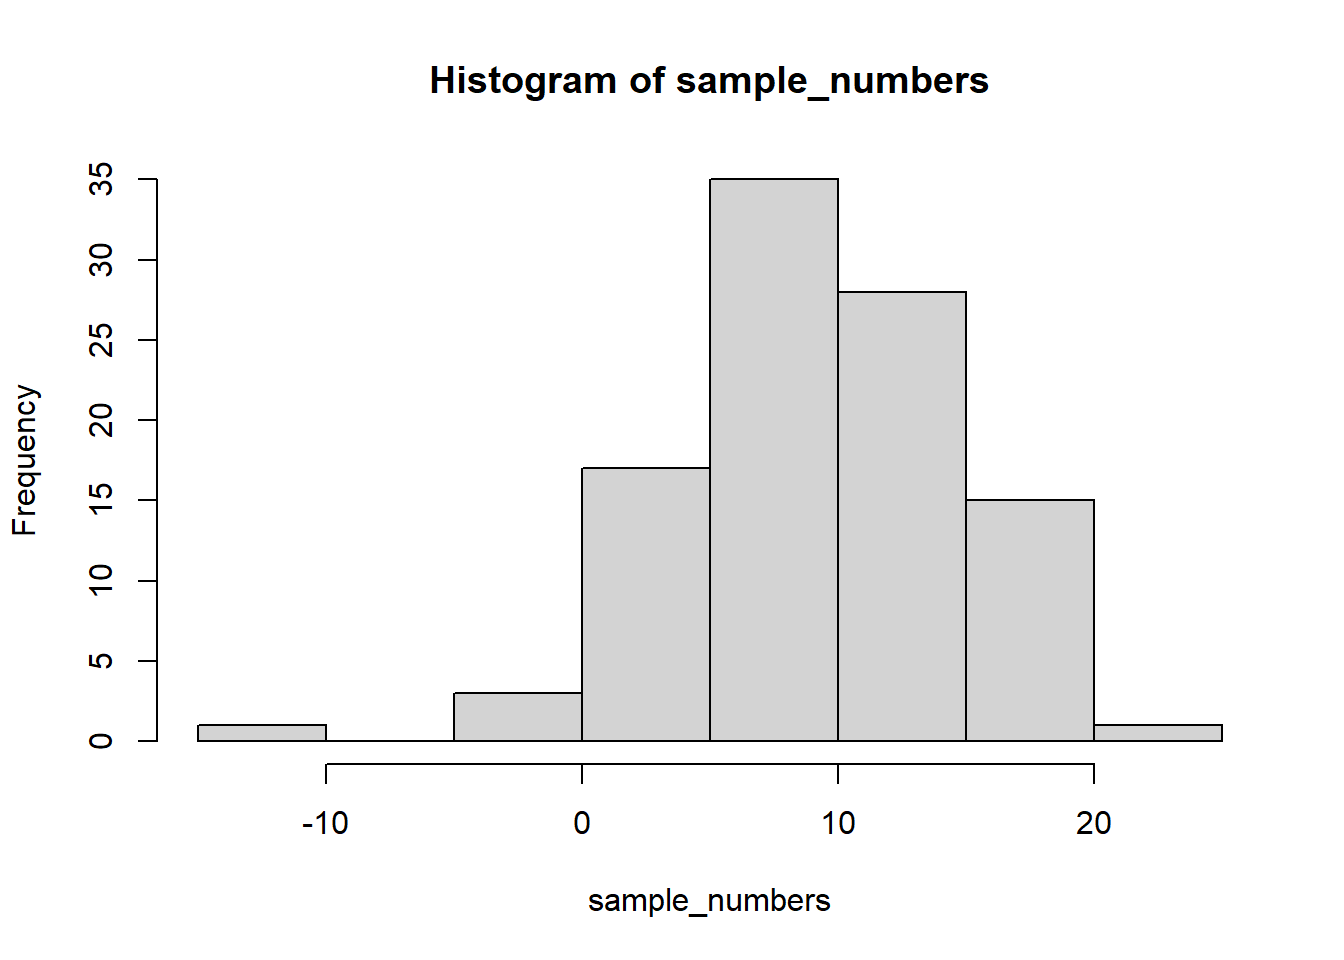
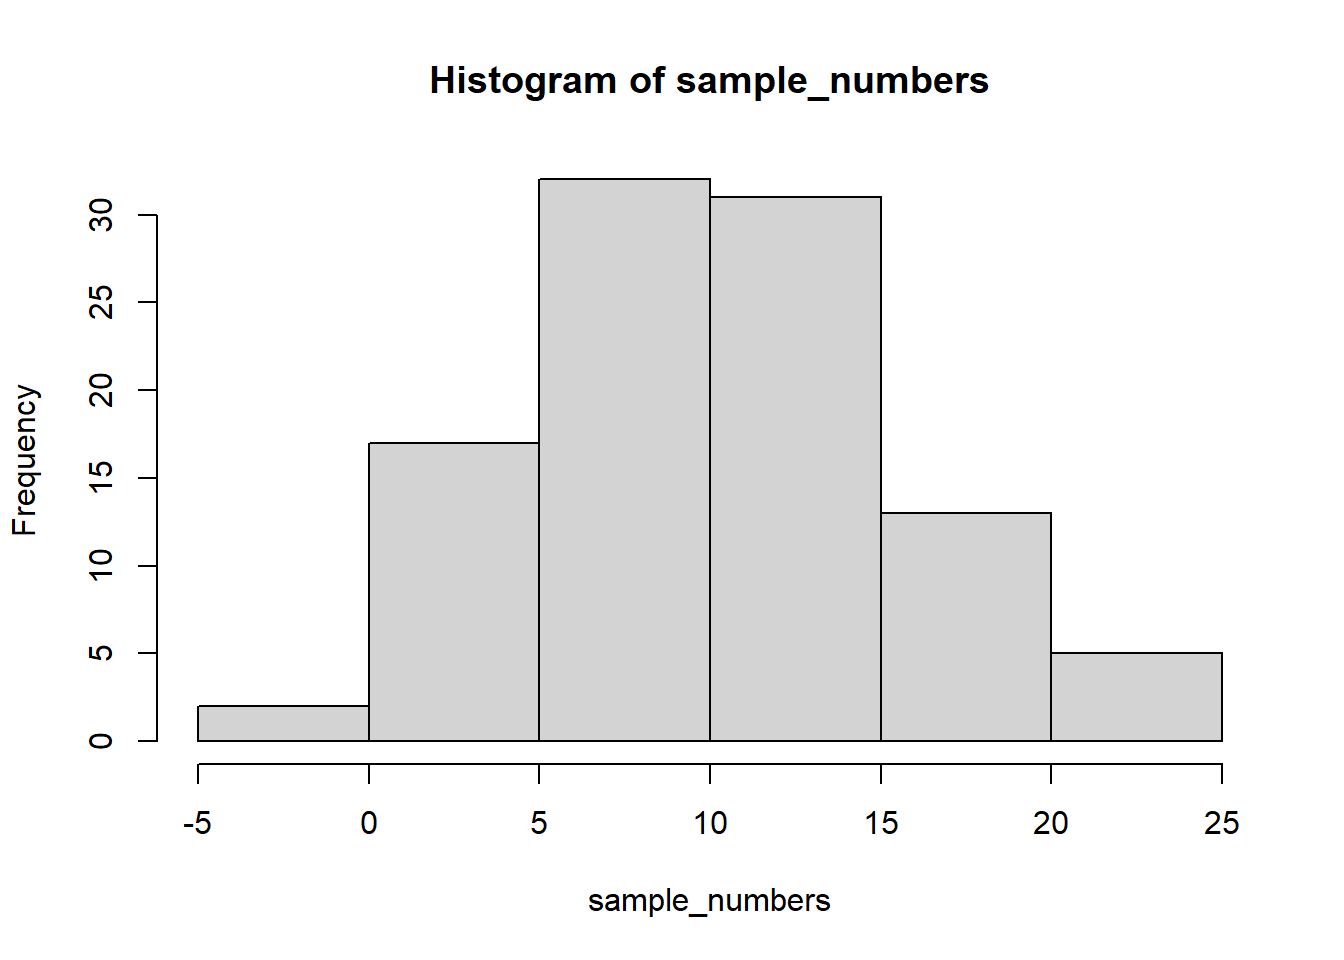
Updates 2.5
Fixing some errors found during this week of lab

diff --git a/docs/lab-2-descriptive-statistics-and-more-graphs.html b/docs/lab-2-descriptive-statistics-and-more-graphs.html
@@ -227,7 +227,7 @@ code span.wa { color: #60a0b0; font-weight: bold; font-style: italic; } /* Warni
 <li class="chapter" data-level="1.4.3" data-path="lab-1-graphing-data.html"><a href="lab-1-graphing-data.html#opening-a-data-file-and-producing-different-types-of-graphs"><i class="fa fa-check"></i><b>1.4.3</b> Opening a data file and producing different types of graphs</a></li>
 <li class="chapter" data-level="1.4.4" data-path="lab-1-graphing-data.html"><a href="lab-1-graphing-data.html#homework-1"><i class="fa fa-check"></i><b>1.4.4</b> Homework</a></li>
 </ul></li>
-<li class="chapter" data-level="1.5" data-path="lab-1-graphing-data.html"><a href="lab-1-graphing-data.html#jamovi---week-4---january-30th-31st"><i class="fa fa-check"></i><b>1.5</b> JAMOVI - Week 4 - January 30th &amp; 31st</a>
+<li class="chapter" data-level="1.5" data-path="lab-1-graphing-data.html"><a href="lab-1-graphing-data.html#jamovi---week-4---february-4th-5th-6th"><i class="fa fa-check"></i><b>1.5</b> JAMOVI - Week 4 - February 4th, 5th, &amp; 6th</a>
 <ul>
 <li class="chapter" data-level="1.5.1" data-path="lab-1-graphing-data.html"><a href="lab-1-graphing-data.html#opening-jamovi-and-reviewing-the-jamovi-layout"><i class="fa fa-check"></i><b>1.5.1</b> Opening JAMOVI and Reviewing the JAMOVI Layout</a></li>
 <li class="chapter" data-level="1.5.2" data-path="lab-1-graphing-data.html"><a href="lab-1-graphing-data.html#reviewing-variable-properties-and-the-edit-or-setup-button"><i class="fa fa-check"></i><b>1.5.2</b> Reviewing Variable Properties and the Edit or Setup button</a></li>
@@ -710,22 +710,22 @@ Describing comic sensibility is near impossible. It’s sort of an abstract sill
 <h4><span class="header-section-number">2.2.3.1</span> range<a href="lab-2-descriptive-statistics-and-more-graphs.html#range" class="anchor-section" aria-label="Anchor link to header"></a></h4>
 <p>The range is the minimum and maximum values in the set, we use the <code>range</code> function.</p>
 <div class="sourceCode" id="cb21"><pre class="sourceCode r"><code class="sourceCode r"><span id="cb21-1"><a href="lab-2-descriptive-statistics-and-more-graphs.html#cb21-1" tabindex="-1"></a><span class="fu">range</span>(sample_numbers)</span></code></pre></div>
-<pre><code>## [1] -10.24517  20.91512</code></pre>
+<pre><code>## [1] -2.087709 24.712916</code></pre>
 </div>
 <div id="var-variance" class="section level4 hasAnchor" number="2.2.3.2">
 <h4><span class="header-section-number">2.2.3.2</span> var = variance<a href="lab-2-descriptive-statistics-and-more-graphs.html#var-variance" class="anchor-section" aria-label="Anchor link to header"></a></h4>
 <p>We can find the sample variance using <code>var</code>. Note, divides by (n-1)</p>
 <div class="sourceCode" id="cb23"><pre class="sourceCode r"><code class="sourceCode r"><span id="cb23-1"><a href="lab-2-descriptive-statistics-and-more-graphs.html#cb23-1" tabindex="-1"></a><span class="fu">var</span>(sample_numbers)</span></code></pre></div>
-<pre><code>## [1] 28.57252</code></pre>
+<pre><code>## [1] 30.94101</code></pre>
 </div>
 <div id="sd-standard-deviation" class="section level4 hasAnchor" number="2.2.3.3">
 <h4><span class="header-section-number">2.2.3.3</span> sd = standard deviation<a href="lab-2-descriptive-statistics-and-more-graphs.html#sd-standard-deviation" class="anchor-section" aria-label="Anchor link to header"></a></h4>
 <p>We find the sample standard deviation us SD. Note, divides by (n-1)</p>
 <div class="sourceCode" id="cb25"><pre class="sourceCode r"><code class="sourceCode r"><span id="cb25-1"><a href="lab-2-descriptive-statistics-and-more-graphs.html#cb25-1" tabindex="-1"></a><span class="fu">sd</span>(sample_numbers)</span></code></pre></div>
-<pre><code>## [1] 5.345327</code></pre>
+<pre><code>## [1] 5.562464</code></pre>
 <p>Remember that the standard deviation is just the square root of the variance, see:</p>
 <div class="sourceCode" id="cb27"><pre class="sourceCode r"><code class="sourceCode r"><span id="cb27-1"><a href="lab-2-descriptive-statistics-and-more-graphs.html#cb27-1" tabindex="-1"></a><span class="fu">sqrt</span>(<span class="fu">var</span>(sample_numbers))</span></code></pre></div>
-<pre><code>## [1] 5.345327</code></pre>
+<pre><code>## [1] 5.562464</code></pre>
 </div>
 <div id="all-descriptives" class="section level4 hasAnchor" number="2.2.3.4">
 <h4><span class="header-section-number">2.2.3.4</span> All Descriptives<a href="lab-2-descriptive-statistics-and-more-graphs.html#all-descriptives" class="anchor-section" aria-label="Anchor link to header"></a></h4>
@@ -733,21 +733,21 @@ Describing comic sensibility is near impossible. It’s sort of an abstract sill
 <div class="sourceCode" id="cb29"><pre class="sourceCode r"><code class="sourceCode r"><span id="cb29-1"><a href="lab-2-descriptive-statistics-and-more-graphs.html#cb29-1" tabindex="-1"></a>sample_numbers <span class="ot">&lt;-</span> <span class="fu">rnorm</span>(<span class="dv">100</span>,<span class="dv">10</span>,<span class="dv">5</span>)</span>
 <span id="cb29-2"><a href="lab-2-descriptive-statistics-and-more-graphs.html#cb29-2" tabindex="-1"></a></span>
 <span id="cb29-3"><a href="lab-2-descriptive-statistics-and-more-graphs.html#cb29-3" tabindex="-1"></a><span class="fu">sum</span>(sample_numbers)</span></code></pre></div>
-<pre><code>## [1] 1003.17</code></pre>
+<pre><code>## [1] 974.2559</code></pre>
 <div class="sourceCode" id="cb31"><pre class="sourceCode r"><code class="sourceCode r"><span id="cb31-1"><a href="lab-2-descriptive-statistics-and-more-graphs.html#cb31-1" tabindex="-1"></a><span class="fu">length</span>(sample_numbers)</span></code></pre></div>
 <pre><code>## [1] 100</code></pre>
 <div class="sourceCode" id="cb33"><pre class="sourceCode r"><code class="sourceCode r"><span id="cb33-1"><a href="lab-2-descriptive-statistics-and-more-graphs.html#cb33-1" tabindex="-1"></a><span class="fu">mean</span>(sample_numbers)</span></code></pre></div>
-<pre><code>## [1] 10.0317</code></pre>
+<pre><code>## [1] 9.742559</code></pre>
 <div class="sourceCode" id="cb35"><pre class="sourceCode r"><code class="sourceCode r"><span id="cb35-1"><a href="lab-2-descriptive-statistics-and-more-graphs.html#cb35-1" tabindex="-1"></a><span class="fu">median</span>(sample_numbers)</span></code></pre></div>
-<pre><code>## [1] 10.13004</code></pre>
+<pre><code>## [1] 9.725955</code></pre>
 <div class="sourceCode" id="cb37"><pre class="sourceCode r"><code class="sourceCode r"><span id="cb37-1"><a href="lab-2-descriptive-statistics-and-more-graphs.html#cb37-1" tabindex="-1"></a><span class="fu">my_mode</span>(sample_numbers)</span></code></pre></div>
-<pre><code>## [1] 13.80553</code></pre>
+<pre><code>## [1] 10.60041</code></pre>
 <div class="sourceCode" id="cb39"><pre class="sourceCode r"><code class="sourceCode r"><span id="cb39-1"><a href="lab-2-descriptive-statistics-and-more-graphs.html#cb39-1" tabindex="-1"></a><span class="fu">range</span>(sample_numbers)</span></code></pre></div>
-<pre><code>## [1] -0.6360102 22.2389220</code></pre>
+<pre><code>## [1] -1.047435 21.581042</code></pre>
 <div class="sourceCode" id="cb41"><pre class="sourceCode r"><code class="sourceCode r"><span id="cb41-1"><a href="lab-2-descriptive-statistics-and-more-graphs.html#cb41-1" tabindex="-1"></a><span class="fu">var</span>(sample_numbers)</span></code></pre></div>
-<pre><code>## [1] 18.94366</code></pre>
+<pre><code>## [1] 25.62877</code></pre>
 <div class="sourceCode" id="cb43"><pre class="sourceCode r"><code class="sourceCode r"><span id="cb43-1"><a href="lab-2-descriptive-statistics-and-more-graphs.html#cb43-1" tabindex="-1"></a><span class="fu">sd</span>(sample_numbers)</span></code></pre></div>
-<pre><code>## [1] 4.352432</code></pre>
+<pre><code>## [1] 5.062486</code></pre>
 </div>
 </div>
 <div id="descriptives-by-conditions" class="section level3 hasAnchor" number="2.2.4">
@@ -760,11 +760,11 @@ Describing comic sensibility is near impossible. It’s sort of an abstract sill
 <p>If you look at the <code>my_df</code> data frame, you will see it has 100 rows, there are 10 rows for each condition with a label in the <code>conditions</code> column, and 10 scores for each condition in the <code>scores</code> column. What if you wanted to know the mean of the scores in each condition? You would want to find 10 means.</p>
 <p>The slow way to do it would be like this:</p>
 <div class="sourceCode" id="cb46"><pre class="sourceCode r"><code class="sourceCode r"><span id="cb46-1"><a href="lab-2-descriptive-statistics-and-more-graphs.html#cb46-1" tabindex="-1"></a><span class="fu">mean</span>(my_df[my_df<span class="sc">$</span>conditions<span class="sc">==</span><span class="st">&quot;A&quot;</span>,]<span class="sc">$</span>scores)</span></code></pre></div>
-<pre><code>## [1] 10.98145</code></pre>
+<pre><code>## [1] 13.66491</code></pre>
 <div class="sourceCode" id="cb48"><pre class="sourceCode r"><code class="sourceCode r"><span id="cb48-1"><a href="lab-2-descriptive-statistics-and-more-graphs.html#cb48-1" tabindex="-1"></a><span class="fu">mean</span>(my_df[my_df<span class="sc">$</span>conditions<span class="sc">==</span><span class="st">&quot;B&quot;</span>,]<span class="sc">$</span>scores)</span></code></pre></div>
-<pre><code>## [1] 9.886817</code></pre>
+<pre><code>## [1] 10.19809</code></pre>
 <div class="sourceCode" id="cb50"><pre class="sourceCode r"><code class="sourceCode r"><span id="cb50-1"><a href="lab-2-descriptive-statistics-and-more-graphs.html#cb50-1" tabindex="-1"></a><span class="fu">mean</span>(my_df[my_df<span class="sc">$</span>conditions<span class="sc">==</span><span class="st">&quot;C&quot;</span>,]<span class="sc">$</span>scores)</span></code></pre></div>
-<pre><code>## [1] 8.385968</code></pre>
+<pre><code>## [1] 7.521792</code></pre>
 <div class="sourceCode" id="cb52"><pre class="sourceCode r"><code class="sourceCode r"><span id="cb52-1"><a href="lab-2-descriptive-statistics-and-more-graphs.html#cb52-1" tabindex="-1"></a><span class="co"># and then keep going</span></span></code></pre></div>
 <p>Nobody wants to do that! Not, me I stopped doing it that way, you should to.</p>
 <div id="group_by-and-summarise" class="section level4 hasAnchor" number="2.2.4.1">
@@ -785,16 +785,16 @@ Describing comic sensibility is near impossible. It’s sort of an abstract sill
 <pre><code>## # A tibble: 10 × 2
 ##    conditions means
 ##    &lt;chr&gt;      &lt;dbl&gt;
-##  1 A          11.0 
-##  2 B           9.89
-##  3 C           8.39
-##  4 D          12.3 
-##  5 E          11.9 
-##  6 F           8.67
-##  7 G           7.62
-##  8 H           8.97
-##  9 I           9.55
-## 10 J           9.09</code></pre>
+##  1 A          13.7 
+##  2 B          10.2 
+##  3 C           7.52
+##  4 D          10.0 
+##  5 E          10.3 
+##  6 F           7.86
+##  7 G          12.7 
+##  8 H          10.6 
+##  9 I          10.5 
+## 10 J           7.97</code></pre>
 <p>A couple things now. First, the print out of this was ugly. Let’s fix that. we put the results of our code into a new variable, then we use <code>knitr::kable</code> to print it out nicely when we <code>knit</code> the document</p>
 <div class="sourceCode" id="cb59"><pre class="sourceCode r"><code class="sourceCode r"><span id="cb59-1"><a href="lab-2-descriptive-statistics-and-more-graphs.html#cb59-1" tabindex="-1"></a>summary_df <span class="ot">&lt;-</span> my_df <span class="sc">%&gt;%</span></span>
 <span id="cb59-2"><a href="lab-2-descriptive-statistics-and-more-graphs.html#cb59-2" tabindex="-1"></a>               <span class="fu">group_by</span>(conditions) <span class="sc">%&gt;%</span></span>
@@ -811,43 +811,43 @@ Describing comic sensibility is near impossible. It’s sort of an abstract sill
 <tbody>
 <tr class="odd">
 <td align="left">A</td>
-<td align="right">10.981450</td>
+<td align="right">13.664910</td>
 </tr>
 <tr class="even">
 <td align="left">B</td>
-<td align="right">9.886817</td>
+<td align="right">10.198092</td>
 </tr>
 <tr class="odd">
 <td align="left">C</td>
-<td align="right">8.385968</td>
+<td align="right">7.521793</td>
 </tr>
 <tr class="even">
 <td align="left">D</td>
-<td align="right">12.302656</td>
+<td align="right">9.999625</td>
 </tr>
 <tr class="odd">
 <td align="left">E</td>
-<td align="right">11.938736</td>
+<td align="right">10.261330</td>
 </tr>
 <tr class="even">
 <td align="left">F</td>
-<td align="right">8.674820</td>
+<td align="right">7.861781</td>
 </tr>
 <tr class="odd">
 <td align="left">G</td>
-<td align="right">7.616739</td>
+<td align="right">12.722155</td>
 </tr>
 <tr class="even">
 <td align="left">H</td>
-<td align="right">8.971213</td>
+<td align="right">10.577194</td>
 </tr>
 <tr class="odd">
 <td align="left">I</td>
-<td align="right">9.545290</td>
+<td align="right">10.499225</td>
 </tr>
 <tr class="even">
 <td align="left">J</td>
-<td align="right">9.089296</td>
+<td align="right">7.972471</td>
 </tr>
 </tbody>
 </table>
@@ -872,53 +872,53 @@ Describing comic sensibility is near impossible. It’s sort of an abstract sill
 <tbody>
 <tr class="odd">
 <td align="left">A</td>
-<td align="right">10.981450</td>
-<td align="right">5.303459</td>
+<td align="right">13.664910</td>
+<td align="right">5.916503</td>
 </tr>
 <tr class="even">
 <td align="left">B</td>
-<td align="right">9.886817</td>
-<td align="right">4.141168</td>
+<td align="right">10.198092</td>
+<td align="right">3.804879</td>
 </tr>
 <tr class="odd">
 <td align="left">C</td>
-<td align="right">8.385968</td>
-<td align="right">3.753569</td>
+<td align="right">7.521793</td>
+<td align="right">5.201726</td>
 </tr>
 <tr class="even">
 <td align="left">D</td>
-<td align="right">12.302656</td>
-<td align="right">3.925672</td>
+<td align="right">9.999625</td>
+<td align="right">5.278433</td>
 </tr>
 <tr class="odd">
 <td align="left">E</td>
-<td align="right">11.938736</td>
-<td align="right">3.839887</td>
+<td align="right">10.261330</td>
+<td align="right">5.978193</td>
 </tr>
 <tr class="even">
 <td align="left">F</td>
-<td align="right">8.674820</td>
-<td align="right">3.954064</td>
+<td align="right">7.861781</td>
+<td align="right">4.696606</td>
 </tr>
 <tr class="odd">
 <td align="left">G</td>
-<td align="right">7.616739</td>
-<td align="right">4.111022</td>
+<td align="right">12.722155</td>
+<td align="right">4.352124</td>
 </tr>
 <tr class="even">
 <td align="left">H</td>
-<td align="right">8.971213</td>
-<td align="right">4.928901</td>
+<td align="right">10.577194</td>
+<td align="right">4.570363</td>
 </tr>
 <tr class="odd">
 <td align="left">I</td>
-<td align="right">9.545290</td>
-<td align="right">4.763286</td>
+<td align="right">10.499225</td>
+<td align="right">3.650064</td>
 </tr>
 <tr class="even">
 <td align="left">J</td>
-<td align="right">9.089296</td>
-<td align="right">2.811802</td>
+<td align="right">7.972471</td>
+<td align="right">3.796578</td>
 </tr>
 </tbody>
 </table>
@@ -944,73 +944,73 @@ Describing comic sensibility is near impossible. It’s sort of an abstract sill
 <tbody>
 <tr class="odd">
 <td align="left">A</td>
-<td align="right">10.981450</td>
-<td align="right">5.303459</td>
-<td align="right">-0.2171249</td>
-<td align="right">18.38589</td>
+<td align="right">13.664910</td>
+<td align="right">5.916503</td>
+<td align="right">4.4478555</td>
+<td align="right">21.84011</td>
 </tr>
 <tr class="even">
 <td align="left">B</td>
-<td align="right">9.886817</td>
-<td align="right">4.141168</td>
-<td align="right">3.3932885</td>
-<td align="right">17.78449</td>
+<td align="right">10.198092</td>
+<td align="right">3.804879</td>
+<td align="right">3.5289390</td>
+<td align="right">16.43626</td>
 </tr>
 <tr class="odd">
 <td align="left">C</td>
-<td align="right">8.385968</td>
-<td align="right">3.753569</td>
-<td align="right">2.7199886</td>
-<td align="right">14.38365</td>
+<td align="right">7.521793</td>
+<td align="right">5.201726</td>
+<td align="right">-1.9717933</td>
+<td align="right">14.31200</td>
 </tr>
 <tr class="even">
 <td align="left">D</td>
-<td align="right">12.302656</td>
-<td align="right">3.925672</td>
-<td align="right">4.1857401</td>
-<td align="right">18.39332</td>
+<td align="right">9.999625</td>
+<td align="right">5.278433</td>
+<td align="right">1.0973816</td>
+<td align="right">16.65236</td>
 </tr>
 <tr class="odd">
 <td align="left">E</td>
-<td align="right">11.938736</td>
-<td align="right">3.839887</td>
-<td align="right">6.6061706</td>
-<td align="right">18.36098</td>
+<td align="right">10.261330</td>
+<td align="right">5.978193</td>
+<td align="right">0.0347348</td>
+<td align="right">21.64203</td>
 </tr>
 <tr class="even">
 <td align="left">F</td>
-<td align="right">8.674820</td>
-<td align="right">3.954064</td>
-<td align="right">2.9137857</td>
-<td align="right">16.81672</td>
+<td align="right">7.861781</td>
+<td align="right">4.696606</td>
+<td align="right">-0.4805095</td>
+<td align="right">13.13271</td>
 </tr>
 <tr class="odd">
 <td align="left">G</td>
-<td align="right">7.616739</td>
-<td align="right">4.111022</td>
-<td align="right">-0.9660138</td>
-<td align="right">13.14791</td>
+<td align="right">12.722155</td>
+<td align="right">4.352124</td>
+<td align="right">6.8535332</td>
+<td align="right">19.33011</td>
 </tr>
 <tr class="even">
 <td align="left">H</td>
-<td align="right">8.971213</td>
-<td align="right">4.928901</td>
-<td align="right">3.2174950</td>
-<td align="right">16.11663</td>
+<td align="right">10.577194</td>
+<td align="right">4.570363</td>
+<td align="right">2.4872385</td>
+<td align="right">19.10640</td>
 </tr>
 <tr class="odd">
 <td align="left">I</td>
-<td align="right">9.545290</td>
-<td align="right">4.763286</td>
-<td align="right">2.7089292</td>
-<td align="right">18.04233</td>
+<td align="right">10.499225</td>
+<td align="right">3.650064</td>
+<td align="right">2.4161351</td>
+<td align="right">14.68118</td>
 </tr>
 <tr class="even">
 <td align="left">J</td>
-<td align="right">9.089296</td>
-<td align="right">2.811802</td>
-<td align="right">4.1482196</td>
-<td align="right">13.38136</td>
+<td align="right">7.972471</td>
+<td align="right">3.796578</td>
+<td align="right">2.9053193</td>
+<td align="right">12.30229</td>
 </tr>
 </tbody>
 </table>
@@ -1296,9 +1296,9 @@ Describing comic sensibility is near impossible. It’s sort of an abstract sill
 <p>We can also ask for a histogram of <code>R_SLEEP</code>:</p>
 <p><img src="img/r_sleephistogram.png" /><!-- --></p>
 <p>Now that the <em>x</em>-axis stops at 23 instead of 8e+6, we can see the shape of the distribution much better. The tallest bar is somewhere around 7. Almost all of the responses are between 4 and 10.</p>
-<p>You often have to write sentences to report your descriptive statistics. For sleep, you might write: Nova Scotians who participated in the study reported a mean of 7.05 hours of sleep per day (<em>M</em> = 7.05, <em>SD</em> = 1.30).
+<p>You often have to write sentences to report your descriptive statistics. For sleep, you might write: Nova Scotians who participated in the study reported a mean of 7.04 hours of sleep per day (<em>M</em> = 7.04, <em>SD</em> = 1.30).
 Or like this…
-The mean (standard deviation) hours of sleep per day reported by Nova Scotians was 7.05 (1.30).</p>
+The mean (standard deviation) hours of sleep per day reported by Nova Scotians was 7.04 (1.30).</p>
 </div>
 <div id="example-2-volunteering" class="section level4 hasAnchor" number="2.5.4.2">
 <h4><span class="header-section-number">2.5.4.2</span> Example 2: Volunteering<a href="lab-2-descriptive-statistics-and-more-graphs.html#example-2-volunteering" class="anchor-section" aria-label="Anchor link to header"></a></h4>
@@ -1403,7 +1403,7 @@ Or like this…
 Participants reported a median (IQR) sense of belonging of 5 (2), corresponding to a sense of belonging between neutral and very strong.</p>
 <p>Let’s say you felt that the <code>BELONGING</code> variable had equal spacing between intervals, so that you could consider it a quasi-interval variable. In that case, you might wish to report the mean and standard deviation. (Remember: This is the default choice in 292 Labs for the Winter of 2025.)</p>
 <p><img src="img/belongingquasioutput.png" /><!-- --></p>
-<p>Now, you might describe your results with a sentence such as: Participants reported a mean sense of belong between neutral and very strong (<em>M</em> = 4.61, <em>SD</em> = 1.68).
+<p>Now, you might describe your results with a sentence such as: Participants reported a mean sense of belonging between neutral and very strong (<em>M</em> = 4.61, <em>SD</em> = 1.68).
 Or like this…
 Participants reported a mean (SD) sense of belonging of 4.61 (1.68), corresponding to a sense of belonging between neutral and very strong.</p>
 <p>Finally, you might want to look at the data graphically. A histogram would be appropriate whether you are considering <code>BELONGING</code> to be ordinal or quasi-interval.</p>

diff --git a/docs/404.html b/docs/404.html
@@ -227,7 +227,7 @@ code span.wa { color: #60a0b0; font-weight: bold; font-style: italic; } /* Warni
 <li class="chapter" data-level="1.4.3" data-path="lab-1-graphing-data.html"><a href="lab-1-graphing-data.html#opening-a-data-file-and-producing-different-types-of-graphs"><i class="fa fa-check"></i><b>1.4.3</b> Opening a data file and producing different types of graphs</a></li>
 <li class="chapter" data-level="1.4.4" data-path="lab-1-graphing-data.html"><a href="lab-1-graphing-data.html#homework-1"><i class="fa fa-check"></i><b>1.4.4</b> Homework</a></li>
 </ul></li>
-<li class="chapter" data-level="1.5" data-path="lab-1-graphing-data.html"><a href="lab-1-graphing-data.html#jamovi---week-4---january-30th-31st"><i class="fa fa-check"></i><b>1.5</b> JAMOVI - Week 4 - January 30th &amp; 31st</a>
+<li class="chapter" data-level="1.5" data-path="lab-1-graphing-data.html"><a href="lab-1-graphing-data.html#jamovi---week-4---february-4th-5th-6th"><i class="fa fa-check"></i><b>1.5</b> JAMOVI - Week 4 - February 4th, 5th, &amp; 6th</a>
 <ul>
 <li class="chapter" data-level="1.5.1" data-path="lab-1-graphing-data.html"><a href="lab-1-graphing-data.html#opening-jamovi-and-reviewing-the-jamovi-layout"><i class="fa fa-check"></i><b>1.5.1</b> Opening JAMOVI and Reviewing the JAMOVI Layout</a></li>
 <li class="chapter" data-level="1.5.2" data-path="lab-1-graphing-data.html"><a href="lab-1-graphing-data.html#reviewing-variable-properties-and-the-edit-or-setup-button"><i class="fa fa-check"></i><b>1.5.2</b> Reviewing Variable Properties and the Edit or Setup button</a></li>
